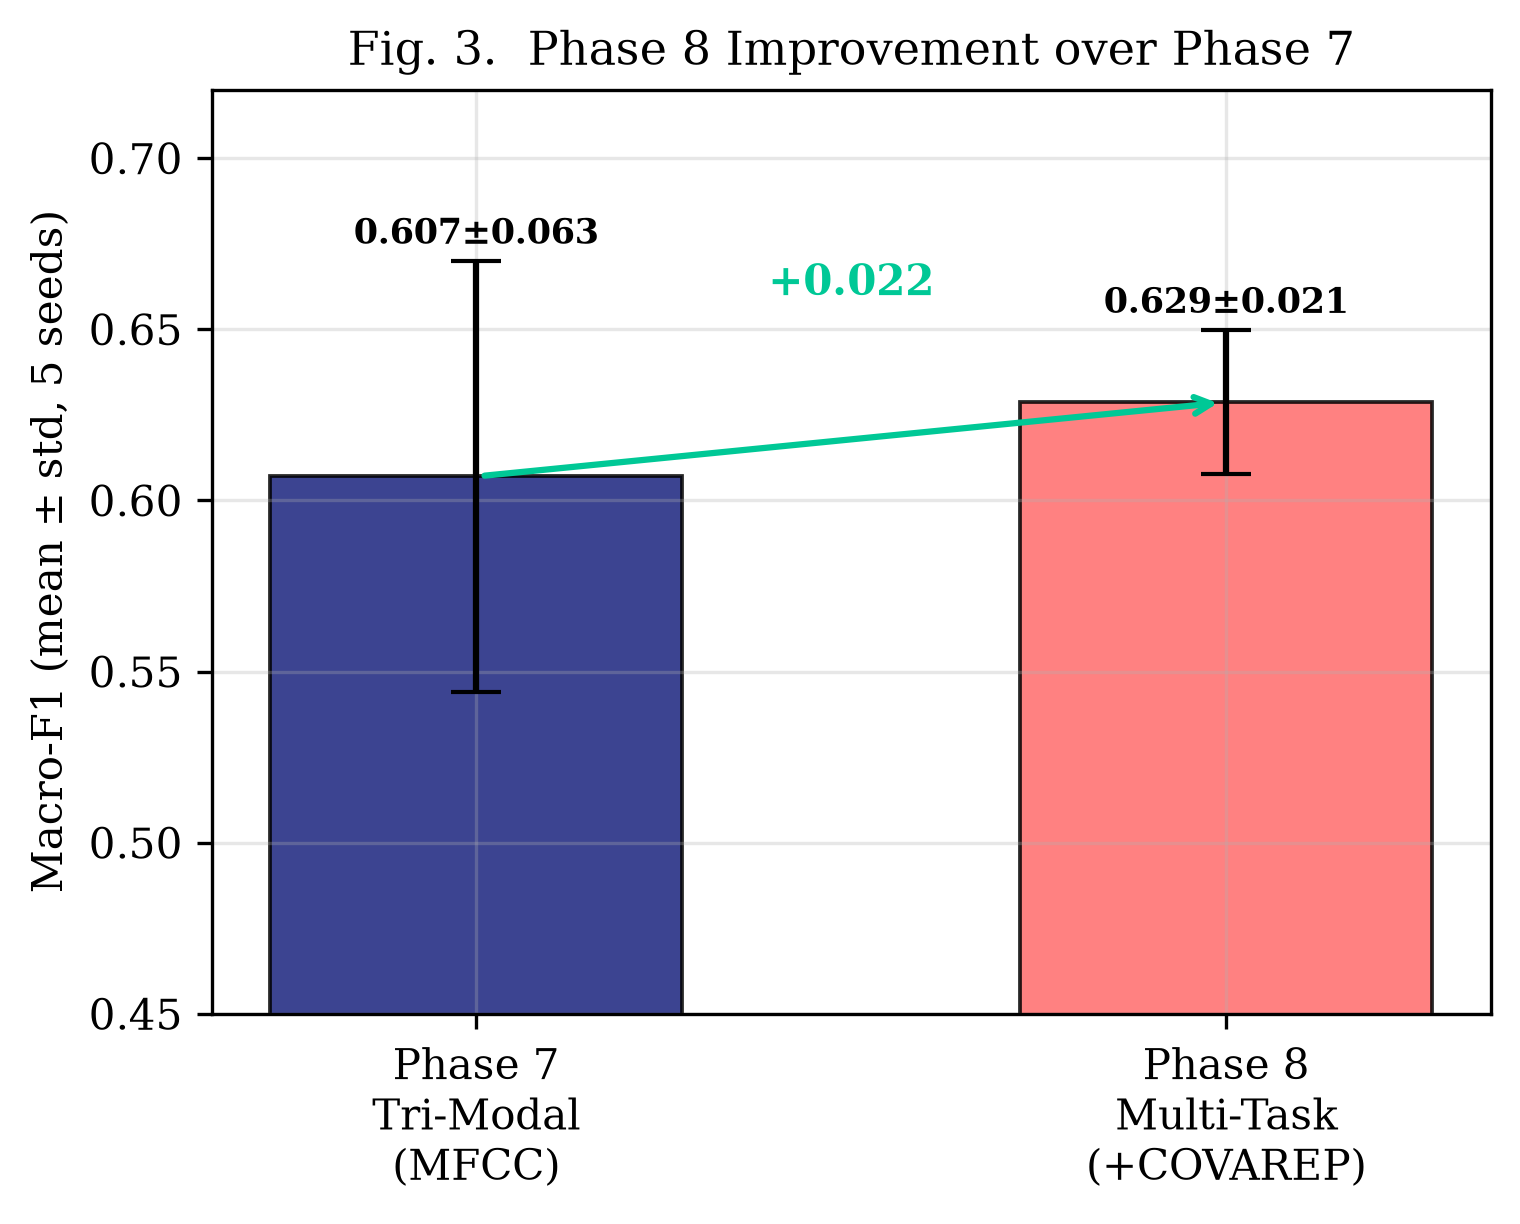
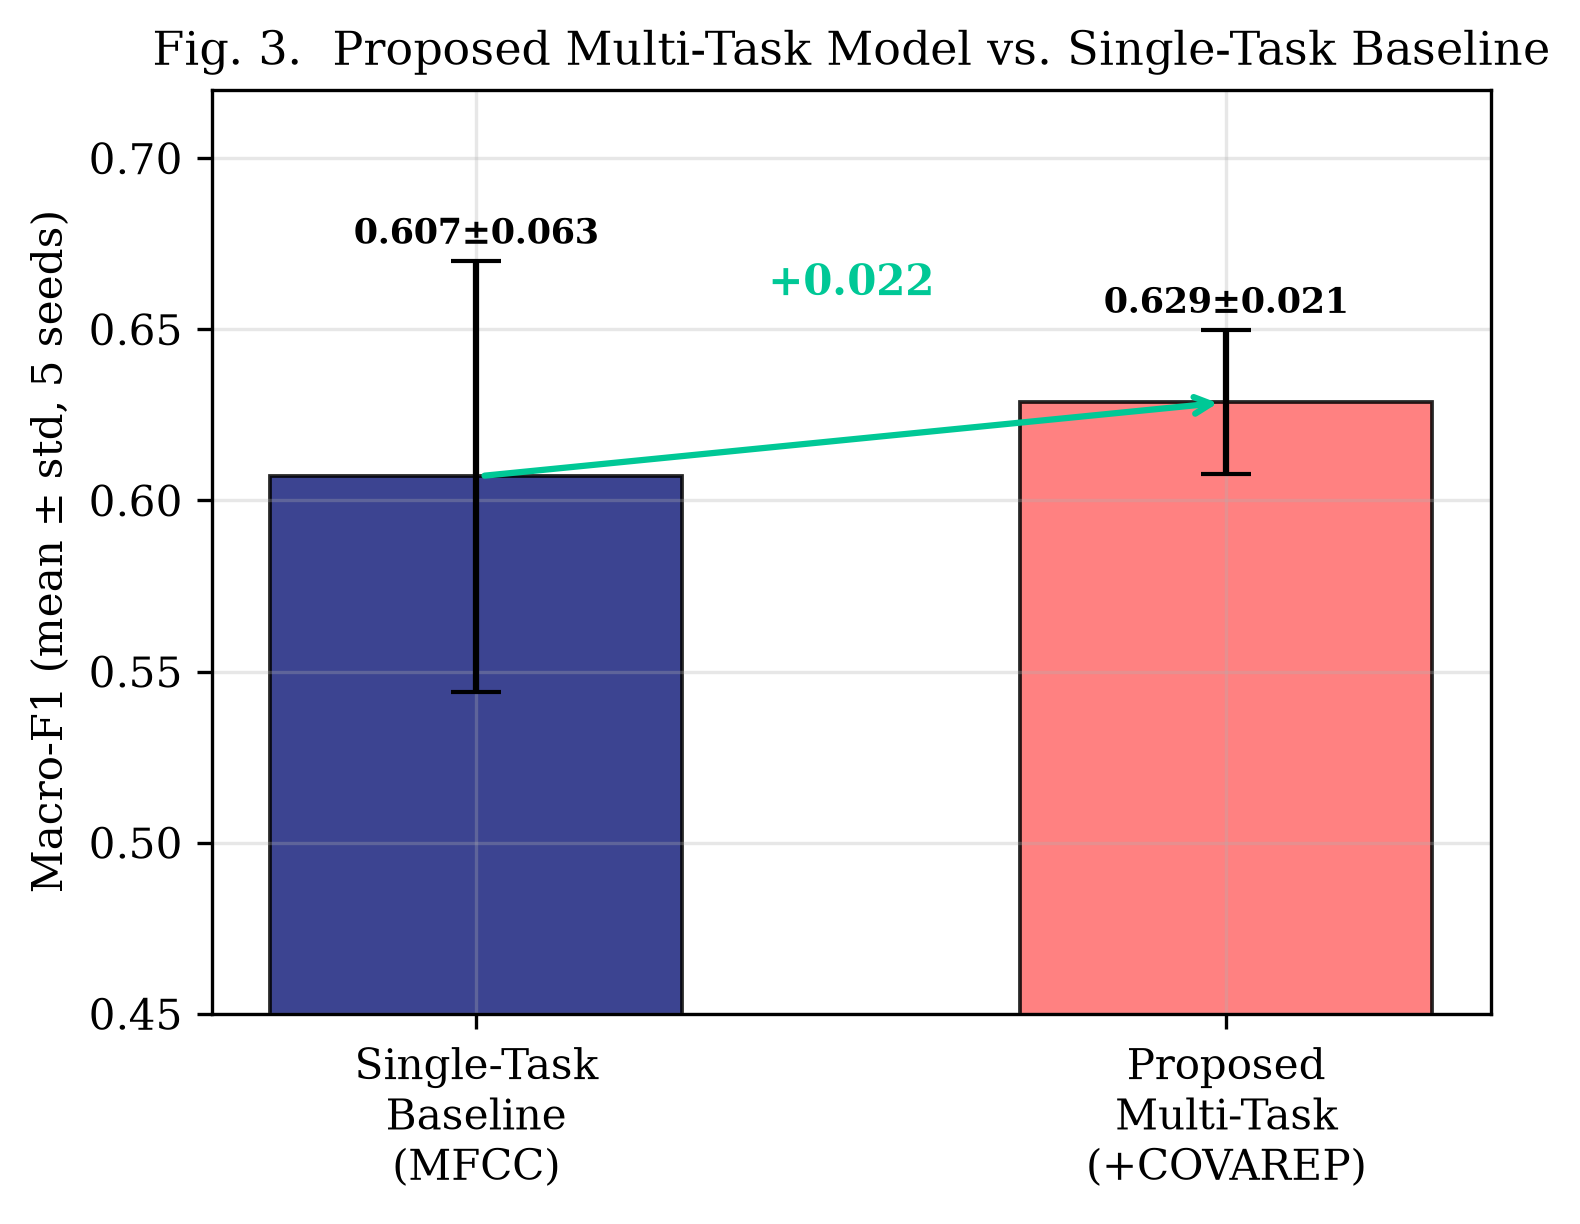
fix(paper): resolve figure-text stale-number contradictions flagged by external review
CRITICAL fixes (update_3.md caught these from a compiled Overleaf PDF
that still had pre-honesty-fix figures uploaded):

- Fig 3 (fig3_p7_vs_p8.png) and Fig 4 (fig4_seed_consistency.png) had
  'Phase 7'/'Phase 8' baked into their matplotlib titles/legends/axis
  labels -- these are images, so the earlier text-only find-replace of
  'Phase 7/8' jargon never touched them. Regenerated both with
  'Single-Task Baseline' / 'Proposed Multi-Task Model' terminology
  matching body text.
- Fig 5 (fig5_sota.png) bar label 'THIS WORK (Phase 8)' -> '(proposed)'.
- Confirmed fig7/fig8 (fairness, attention-vs-concat) already had
  correct honest 10-seed numbers matching body text -- the stale
  numbers the reviewer saw were from an old PNG upload in Overleaf
  that was never replaced after this repo's figures were regenerated;
  no source bug there, but flagging for the user to re-upload.
- Table III (tab:sota): restructured from ambiguous 'Dev F1' column
  (which silently held a test-set F1 value in one row) into an
  explicit Split column (Dev / Test N=47) with combined F1/AUC/TPR-gap
  columns -- removes the reviewer-flagged misleading column heading.
  Also fixed an accidental duplicate \\label from an earlier edit pass
  that would have caused two labels to resolve to the same table
  number.

diff --git a/src/visualization/make_paper_figures.py b/src/visualization/make_paper_figures.py
@@ -153,7 +153,7 @@ def fig_p7_vs_p8():
     p8_f1  = p8["f1_mean"]; p8_std = p8["f1_std"]
 
     fig, ax = plt.subplots(figsize=(5.5, 4))
-    x = ["Phase 7\nTri-Modal\n(MFCC)", "Phase 8\nMulti-Task\n(+COVAREP)"]
+    x = ["Single-Task\nBaseline\n(MFCC)", "Proposed\nMulti-Task\n(+COVAREP)"]
     y = [p7_tri, p8_f1]
     e = [p7_tri_std, p8_std]
     colors = [NAVY, CORAL]
@@ -161,7 +161,7 @@ def fig_p7_vs_p8():
                   edgecolor="black", linewidth=0.9, width=0.55)
     ax.set_ylabel("Macro-F1 (mean ± std, 5 seeds)")
     ax.set_ylim(0.45, 0.72)
-    ax.set_title("Fig. 3.  Phase 8 Improvement over Phase 7")
+    ax.set_title("Fig. 3.  Proposed Multi-Task Model vs. Single-Task Baseline")
     for b, v, s in zip(bars, y, e):
         ax.text(b.get_x() + b.get_width()/2, v + s + 0.005, f"{v:.3f}±{s:.3f}",
                 ha="center", fontsize=8.5, weight="bold")
@@ -184,11 +184,11 @@ def fig_seed_consistency():
 
     fig, ax = plt.subplots(figsize=(6, 3.6))
     ax.scatter(range(len(seeds)), f1s, s=120, color=CORAL,
-               edgecolor="black", zorder=3, label="Phase 8 per-seed F1")
+               edgecolor="black", zorder=3, label="Proposed model per-seed F1")
     ax.axhline(p8["f1_mean"], color=CORAL, ls="-", lw=1.5,
-               label=f"Phase 8 mean ({p8['f1_mean']:.3f})")
+               label=f"Proposed model mean ({p8['f1_mean']:.3f})")
     ax.axhline(p7_tri, color=NAVY, ls="--", lw=1.5,
-               label=f"Phase 7 mean ({p7_tri:.3f})")
+               label=f"Single-task baseline mean ({p7_tri:.3f})")
     ax.fill_between([-0.5, len(seeds)-0.5],
                     p8["f1_mean"]-p8["f1_std"], p8["f1_mean"]+p8["f1_std"],
                     color=CORAL, alpha=0.12)
@@ -196,7 +196,7 @@ def fig_seed_consistency():
     ax.set_xticklabels([f"seed {s}" for s in seeds])
     ax.set_ylabel("Macro-F1")
     ax.set_xlim(-0.5, len(seeds)-0.5)
-    ax.set_title("Fig. 4.  Phase 8 Per-Seed Consistency (all 5 above Phase 7)")
+    ax.set_title("Fig. 4.  Proposed Model Per-Seed Consistency (all 5 above baseline)")
     ax.legend(fontsize=7.5, loc="lower right")
     plt.savefig(FIGURES / "fig4_seed_consistency.png")
     plt.close()
@@ -207,7 +207,7 @@ def fig_seed_consistency():
 def fig_sota():
     """Fig 5 — SOTA positioning."""
     methods = ["AVEC'17\ntext", "AVEC'17\naudio", "Williamson+\n'16",
-               "THIS WORK\n(Phase 8)", "Gong+\n'17"]
+               "THIS WORK\n(proposed)", "Gong+\n'17"]
     f1s     = [0.49, 0.50, 0.57, 0.629, 0.70]
     colors  = ["#999", "#999", "#777", CORAL, "#555"]
 

diff --git a/documents/paper_draft.tex b/documents/paper_draft.tex
@@ -613,20 +613,21 @@ paired-seed study or a larger dataset.
 \label{tab:sota}
 \begin{tabular}{llcccc}
 \toprule
-\textbf{Method} & \textbf{Year} & \textbf{Modalities} & \textbf{Dev F1} & \textbf{Dev AUC} & \textbf{Test AUC} \\
+\textbf{Method} & \textbf{Modalities} & \textbf{Split} & \textbf{F1} & \textbf{AUC} & \textbf{TPR Gap} \\
 \midrule
-AVEC-2017 audio \cite{ringeval2017}     & 2017 & A       & 0.50 & — & — \\
-AVEC-2017 text \cite{ringeval2017}      & 2017 & T       & 0.49 & — & — \\
-Williamson et al.\ \cite{williamson2016}& 2016 & A+V     & 0.57 & — & — \\
-Gong \& Poellabauer \cite{gong2017}    & 2017 & A+V+T   & 0.70 & — & — \\
-Ray et al.\ \cite{ray2019}             & 2019 & A+T     & —    & 0.80 & — \\
-Shen et al.\ \cite{shen2022}           & 2022 & A+V+T   & —    & 0.83 & — \\
-\textbf{This work (dev, 5-seed)}       & \textbf{2025} & \textbf{F+A+T}
-  & $\mathbf{0.629\pm0.021}$ & $0.658\pm0.029$ & — \\
-\textbf{This work (test, $N{=}47$)}    & \textbf{2025} & \textbf{F+A+T}
-  & 0.585 & — & $0.706$ \\
+AVEC-2017 audio \cite{ringeval2017}      & A     & Dev & 0.50 & --- & --- \\
+AVEC-2017 text \cite{ringeval2017}       & T     & Dev & 0.49 & --- & --- \\
+Williamson et al.\ \cite{williamson2016} & A+V   & Dev & 0.57 & --- & --- \\
+Gong \& Poellabauer \cite{gong2017}      & A+V+T & Dev & 0.70 & --- & --- \\
+Ray et al.\ \cite{ray2019}               & A+T   & Dev & --- & 0.80 & --- \\
+Shen et al.\ \cite{shen2022}             & A+V+T & Dev (ext.) & --- & 0.83 & --- \\
+\textbf{This work} & \textbf{F+A+T} & \textbf{Dev}
+  & $\mathbf{0.629\pm0.021}$ & $0.658\pm0.029$ & 0.286 \\
+\textbf{This work} & \textbf{F+A+T} & \textbf{Test ($N{=}47$)}
+  & $\mathbf{0.585}$ & $\mathbf{0.706}$ & $\mathbf{0.000}$ \\
 \bottomrule
-\multicolumn{6}{l}{\scriptsize A=Audio, V=Video, T=Text, F=Face AUs. `—' = not reported by authors on this split.} \\
+\multicolumn{6}{l}{\scriptsize A=Audio, V=Video, T=Text, F=Face AUs. `---' = not reported by authors.} \\
+\multicolumn{6}{l}{\scriptsize Shen et al.\ use an extended DAIC-WOZ split, not directly comparable to Dev/Test above.} \\
 \end{tabular}
 \end{table}
 
